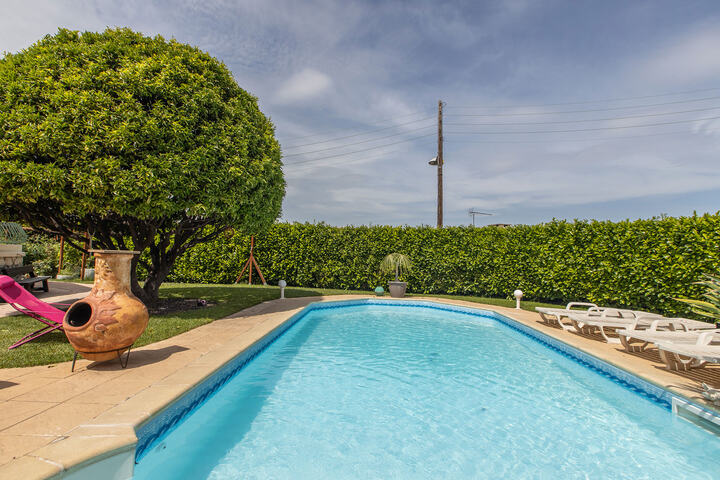
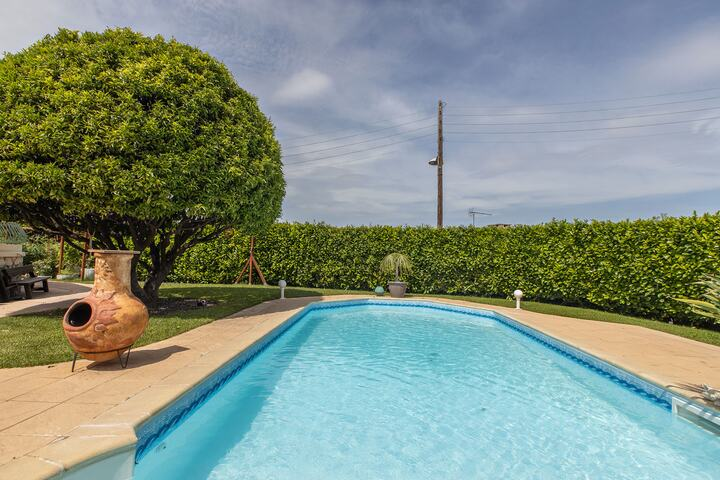
Bail mobilité v2 : salon canapé fermé et piscine sans transats (retouches Magnific validées par Géraldine, 540 crédits), cuisine du bandeau sur la photo 19 (26/11)

diff --git a/site/bail-mobilite-v2/index.html b/site/bail-mobilite-v2/index.html
@@ -61,7 +61,7 @@
   <div class="v2-trio v2-bandeau">
     <figure><img src="../assets/img/terrasse-vue-mer.jpg" alt="Terrasse de l&#x27;appartement avec table et vue sur la mer." loading="lazy"><figcaption>Le soir, changez d'horizon</figcaption></figure>
     <figure><img src="../assets/img/visite/trio-sejour.jpg" alt="Le séjour : le canapé et la table à manger, ouverts sur la terrasse" loading="lazy"><figcaption>De la place pour vivre, pas seulement pour dormir</figcaption></figure>
-    <figure><img src="../assets/img/visite/trio-cuisine.jpg" alt="La cuisine équipée : plan de travail, four, micro-ondes, réfrigérateur et îlot" loading="lazy"><figcaption>Vos habitudes voyagent aussi</figcaption></figure>
+    <figure><img src="../assets/img/visite/trio-cuisine.jpg" alt="La cuisine équipée : îlot et tabourets, four, micro-ondes et réfrigérateur" loading="lazy"><figcaption>Vos habitudes voyagent aussi</figcaption></figure>
   </div>
   <p class="v2-centre"><a class="bouton" href="#demande">Vérifier mes dates</a></p>
 </div></section>
@@ -71,8 +71,8 @@
   <p class="v2-lead v2-une-ligne">Au premier étage d'une villa, un appartement traversant de 77,51 m² avec deux chambres, deux salles d'eau et deux terrasses.</p>
 </div></section>
 <section class="v2-blanc v2-visite"><div class="v2-l">
-  <div class="v2-cartes"><figure class="v2-carte"><img src="../assets/img/salon-vue.jpg" alt="Le salon et son canapé-lit, ouvert sur la terrasse" loading="lazy"><figcaption><svg class="pic v2-pic" aria-hidden="true"><use href="#i-canape"/></svg><h3>Le salon</h3><p>Un canapé-lit dans la pièce de vie.</p></figcaption></figure><figure class="v2-carte"><img src="../assets/img/chambre-1-fenetre.jpg" alt="La première chambre, son lit double et sa fenêtre" loading="lazy"><figcaption><svg class="pic v2-pic" aria-hidden="true"><use href="#i-lit"/></svg><h3>La première chambre</h3><p>13,91 m², un lit double et une salle d&#x27;eau privative avec douche à l&#x27;italienne.</p></figcaption></figure><figure class="v2-carte"><img src="../assets/img/chambre-2-lits.jpg" alt="La seconde chambre et ses deux lits simples" loading="lazy"><figcaption><svg class="pic v2-pic" aria-hidden="true"><use href="#i-ordi"/></svg><h3>La seconde chambre</h3><p>12,88 m², deux lits simples de 80 × 200 cm ou un lit double de 160 cm, et un poste de travail. La fibre est installée dans le logement.</p></figcaption></figure><figure class="v2-carte"><img src="../assets/img/salle-eau-douche.jpg" alt="La grande salle d&#x27;eau" loading="lazy"><figcaption><svg class="pic v2-pic" aria-hidden="true"><use href="#i-douche"/></svg><h3>Les salles d&#x27;eau</h3><p>Deux salles d&#x27;eau, dont une privative, et un WC indépendant.</p></figcaption></figure><figure class="v2-carte"><img src="../assets/img/piscine-jardin.jpg" alt="" loading="lazy"><figcaption><svg class="pic v2-pic" aria-hidden="true"><use href="#i-piscine"/></svg><h3>La piscine</h3><p>Une piscine partagée dans le jardin de la villa, accessible selon les horaires prévus.</p></figcaption></figure><div class="v2-carte v2-carte-bleue"><svg class="pic v2-pic" aria-hidden="true"><use href="#i-details"/></svg><h3>Les détails qui comptent</h3><ul class="v2-liste"><li><svg class="pic-s" aria-hidden="true"><use href="#i-machine"/></svg><span>Lave-linge</span></li><li><svg class="pic-s" aria-hidden="true"><use href="#i-seche"/></svg><span>Sèche-linge</span></li><li><svg class="pic-s" aria-hidden="true"><use href="#i-linge"/></svg><span>Linge de maison fourni avec rechange</span></li><li><svg class="pic-s" aria-hidden="true"><use href="#i-clim"/></svg><span>Climatisation réversible</span></li><li><svg class="pic-s" aria-hidden="true"><use href="#i-parking"/></svg><span>Une place de parking privée</span></li></ul></div></div>
-  <details class="v2-galerie-tout"><summary>Voir toutes les photos (23)</summary><div class="v2-galerie-visite"><div class="v2-galerie-groupe"><h3>Le séjour</h3><div class="galerie v2-gg"><a href="../assets/img/visite/sejour.jpg"><img src="../assets/img/visite/sejour-m.jpg" alt="Le séjour et la salle à manger, canapé replié" loading="lazy"></a><a href="../assets/img/visite/salon-1.jpg"><img src="../assets/img/visite/salon-1-m.jpg" alt="Le coin salon, canapé-lit déplié" loading="lazy"></a></div></div><div class="v2-galerie-groupe"><h3>La cuisine</h3><div class="galerie v2-gg"><a href="../assets/img/visite/cuisine-1.jpg"><img src="../assets/img/visite/cuisine-1-m.jpg" alt="La cuisine ouverte et son îlot, face au séjour" loading="lazy"></a><a href="../assets/img/visite/cuisine-2.jpg"><img src="../assets/img/visite/cuisine-2-m.jpg" alt="La cuisine : plan de travail, four, micro-ondes, réfrigérateur" loading="lazy"></a><a href="../assets/img/visite/cuisine-3.jpg"><img src="../assets/img/visite/cuisine-3-m.jpg" alt="L&#x27;îlot de la cuisine" loading="lazy"></a><a href="../assets/img/visite/cuisine-4.jpg"><img src="../assets/img/visite/cuisine-4-m.jpg" alt="La cuisine et l&#x27;entrée" loading="lazy"></a><a href="../assets/img/visite/cuisine-5.jpg"><img src="../assets/img/visite/cuisine-5-m.jpg" alt="Four, micro-ondes et réfrigérateur-congélateur" loading="lazy"></a><a href="../assets/img/visite/cuisine-6.jpg"><img src="../assets/img/visite/cuisine-6-m.jpg" alt="Plaque à induction et ustensiles" loading="lazy"></a><a href="../assets/img/visite/cuisine-7.jpg"><img src="../assets/img/visite/cuisine-7-m.jpg" alt="Préparer le dîner dans la cuisine" loading="lazy"></a></div></div><div class="v2-galerie-groupe"><h3>La première chambre et sa salle d&#x27;eau privative</h3><div class="galerie v2-gg"><a href="../assets/img/visite/chambre1-1.jpg"><img src="../assets/img/visite/chambre1-1-m.jpg" alt="La première chambre, son lit double et sa fenêtre" loading="lazy"></a><a href="../assets/img/visite/chambre1-2.jpg"><img src="../assets/img/visite/chambre1-2-m.jpg" alt="La première chambre et ses rangements" loading="lazy"></a><a href="../assets/img/visite/sde-privative.jpg"><img src="../assets/img/visite/sde-privative-m.jpg" alt="La salle d&#x27;eau privative, douche à l&#x27;italienne" loading="lazy"></a></div></div><div class="v2-galerie-groupe"><h3>La seconde chambre</h3><div class="galerie v2-gg"><a href="../assets/img/visite/chambre2-2.jpg"><img src="../assets/img/visite/chambre2-2-m.jpg" alt="La seconde chambre côté fenêtre" loading="lazy"></a><a href="../assets/img/visite/chambre2-3.jpg"><img src="../assets/img/visite/chambre2-3-m.jpg" alt="La seconde chambre, côté mur" loading="lazy"></a></div></div><div class="v2-galerie-groupe"><h3>La grande salle d&#x27;eau et le WC</h3><div class="galerie v2-gg"><a href="../assets/img/visite/sde-grande.jpg"><img src="../assets/img/visite/sde-grande-m.jpg" alt="La grande salle d&#x27;eau" loading="lazy"></a><a href="../assets/img/visite/wc.jpg"><img src="../assets/img/visite/wc-m.jpg" alt="Le WC indépendant" loading="lazy"></a></div></div><div class="v2-galerie-groupe"><h3>Les terrasses</h3><div class="galerie v2-gg"><a href="../assets/img/visite/terrasse-2.jpg"><img src="../assets/img/visite/terrasse-2-m.jpg" alt="La terrasse face à la mer" loading="lazy"></a><a href="../assets/img/visite/terrasse-3.jpg"><img src="../assets/img/visite/terrasse-3-m.jpg" alt="La table de la terrasse" loading="lazy"></a><a href="../assets/img/visite/apero-3.jpg"><img src="../assets/img/visite/apero-3-m.jpg" alt="La terrasse et la mer" loading="lazy"></a><a href="../assets/img/visite/apero-4.jpg"><img src="../assets/img/visite/apero-4-m.jpg" alt="Les tables de la terrasse vues d&#x27;en haut" loading="lazy"></a><a href="../assets/img/visite/vue.jpg"><img src="../assets/img/visite/vue-m.jpg" alt="La vue sur la Baie des Anges" loading="lazy"></a></div></div><div class="v2-galerie-groupe"><h3>Le jardin et la piscine partagée</h3><div class="galerie v2-gg"><a href="../assets/img/visite/piscine-3.jpg"><img src="../assets/img/visite/piscine-3-m.jpg" alt="La piscine partagée et le jardin" loading="lazy"></a><a href="../assets/img/visite/piscine-ciel.jpg"><img src="../assets/img/visite/piscine-ciel-m.jpg" alt="La piscine et le jardin vus du ciel" loading="lazy"></a></div></div></div></details>
+  <div class="v2-cartes"><figure class="v2-carte"><img src="../assets/img/visite/salon-ferme.jpg" alt="Le salon et son canapé replié, contre le mur orange" loading="lazy"><figcaption><svg class="pic v2-pic" aria-hidden="true"><use href="#i-canape"/></svg><h3>Le salon</h3><p>Un canapé-lit dans la pièce de vie.</p></figcaption></figure><figure class="v2-carte"><img src="../assets/img/chambre-1-fenetre.jpg" alt="La première chambre, son lit double et sa fenêtre" loading="lazy"><figcaption><svg class="pic v2-pic" aria-hidden="true"><use href="#i-lit"/></svg><h3>La première chambre</h3><p>13,91 m², un lit double et une salle d&#x27;eau privative avec douche à l&#x27;italienne.</p></figcaption></figure><figure class="v2-carte"><img src="../assets/img/chambre-2-lits.jpg" alt="La seconde chambre et ses deux lits simples" loading="lazy"><figcaption><svg class="pic v2-pic" aria-hidden="true"><use href="#i-ordi"/></svg><h3>La seconde chambre</h3><p>12,88 m², deux lits simples de 80 × 200 cm ou un lit double de 160 cm, et un poste de travail. La fibre est installée dans le logement.</p></figcaption></figure><figure class="v2-carte"><img src="../assets/img/salle-eau-douche.jpg" alt="La grande salle d&#x27;eau" loading="lazy"><figcaption><svg class="pic v2-pic" aria-hidden="true"><use href="#i-douche"/></svg><h3>Les salles d&#x27;eau</h3><p>Deux salles d&#x27;eau, dont une privative, et un WC indépendant.</p></figcaption></figure><figure class="v2-carte"><img src="../assets/img/visite/piscine-3.jpg" alt="La piscine partagée et le jardin de la villa" loading="lazy"><figcaption><svg class="pic v2-pic" aria-hidden="true"><use href="#i-piscine"/></svg><h3>La piscine</h3><p>Une piscine partagée dans le jardin de la villa, accessible selon les horaires prévus.</p></figcaption></figure><div class="v2-carte v2-carte-bleue"><svg class="pic v2-pic" aria-hidden="true"><use href="#i-details"/></svg><h3>Les détails qui comptent</h3><ul class="v2-liste"><li><svg class="pic-s" aria-hidden="true"><use href="#i-machine"/></svg><span>Lave-linge</span></li><li><svg class="pic-s" aria-hidden="true"><use href="#i-seche"/></svg><span>Sèche-linge</span></li><li><svg class="pic-s" aria-hidden="true"><use href="#i-linge"/></svg><span>Linge de maison fourni avec rechange</span></li><li><svg class="pic-s" aria-hidden="true"><use href="#i-clim"/></svg><span>Climatisation réversible</span></li><li><svg class="pic-s" aria-hidden="true"><use href="#i-parking"/></svg><span>Une place de parking privée</span></li></ul></div></div>
+  <details class="v2-galerie-tout"><summary>Voir toutes les photos (23)</summary><div class="v2-galerie-visite"><div class="v2-galerie-groupe"><h3>Le séjour</h3><div class="galerie v2-gg"><a href="../assets/img/visite/salon-ferme.jpg"><img src="../assets/img/visite/salon-ferme-m.jpg" alt="Le coin salon, canapé-lit replié" loading="lazy"></a><a href="../assets/img/visite/salon-1.jpg"><img src="../assets/img/visite/salon-1-m.jpg" alt="Le coin salon, canapé-lit déplié" loading="lazy"></a></div></div><div class="v2-galerie-groupe"><h3>La cuisine</h3><div class="galerie v2-gg"><a href="../assets/img/visite/cuisine-1.jpg"><img src="../assets/img/visite/cuisine-1-m.jpg" alt="La cuisine ouverte et son îlot, face au séjour" loading="lazy"></a><a href="../assets/img/visite/cuisine-2.jpg"><img src="../assets/img/visite/cuisine-2-m.jpg" alt="La cuisine : plan de travail, four, micro-ondes, réfrigérateur" loading="lazy"></a><a href="../assets/img/visite/cuisine-3.jpg"><img src="../assets/img/visite/cuisine-3-m.jpg" alt="L&#x27;îlot de la cuisine" loading="lazy"></a><a href="../assets/img/visite/cuisine-4.jpg"><img src="../assets/img/visite/cuisine-4-m.jpg" alt="La cuisine et l&#x27;entrée" loading="lazy"></a><a href="../assets/img/visite/cuisine-5.jpg"><img src="../assets/img/visite/cuisine-5-m.jpg" alt="Four, micro-ondes et réfrigérateur-congélateur" loading="lazy"></a><a href="../assets/img/visite/cuisine-6.jpg"><img src="../assets/img/visite/cuisine-6-m.jpg" alt="Plaque à induction et ustensiles" loading="lazy"></a><a href="../assets/img/visite/cuisine-7.jpg"><img src="../assets/img/visite/cuisine-7-m.jpg" alt="Préparer le dîner dans la cuisine" loading="lazy"></a></div></div><div class="v2-galerie-groupe"><h3>La première chambre et sa salle d&#x27;eau privative</h3><div class="galerie v2-gg"><a href="../assets/img/visite/chambre1-1.jpg"><img src="../assets/img/visite/chambre1-1-m.jpg" alt="La première chambre, son lit double et sa fenêtre" loading="lazy"></a><a href="../assets/img/visite/chambre1-2.jpg"><img src="../assets/img/visite/chambre1-2-m.jpg" alt="La première chambre et ses rangements" loading="lazy"></a><a href="../assets/img/visite/sde-privative.jpg"><img src="../assets/img/visite/sde-privative-m.jpg" alt="La salle d&#x27;eau privative, douche à l&#x27;italienne" loading="lazy"></a></div></div><div class="v2-galerie-groupe"><h3>La seconde chambre</h3><div class="galerie v2-gg"><a href="../assets/img/visite/chambre2-2.jpg"><img src="../assets/img/visite/chambre2-2-m.jpg" alt="La seconde chambre côté fenêtre" loading="lazy"></a><a href="../assets/img/visite/chambre2-3.jpg"><img src="../assets/img/visite/chambre2-3-m.jpg" alt="La seconde chambre, côté mur" loading="lazy"></a></div></div><div class="v2-galerie-groupe"><h3>La grande salle d&#x27;eau et le WC</h3><div class="galerie v2-gg"><a href="../assets/img/visite/sde-grande.jpg"><img src="../assets/img/visite/sde-grande-m.jpg" alt="La grande salle d&#x27;eau" loading="lazy"></a><a href="../assets/img/visite/wc.jpg"><img src="../assets/img/visite/wc-m.jpg" alt="Le WC indépendant" loading="lazy"></a></div></div><div class="v2-galerie-groupe"><h3>Les terrasses</h3><div class="galerie v2-gg"><a href="../assets/img/visite/terrasse-2.jpg"><img src="../assets/img/visite/terrasse-2-m.jpg" alt="La terrasse face à la mer" loading="lazy"></a><a href="../assets/img/visite/terrasse-3.jpg"><img src="../assets/img/visite/terrasse-3-m.jpg" alt="La table de la terrasse" loading="lazy"></a><a href="../assets/img/visite/apero-3.jpg"><img src="../assets/img/visite/apero-3-m.jpg" alt="La terrasse et la mer" loading="lazy"></a><a href="../assets/img/visite/apero-4.jpg"><img src="../assets/img/visite/apero-4-m.jpg" alt="Les tables de la terrasse vues d&#x27;en haut" loading="lazy"></a><a href="../assets/img/visite/vue.jpg"><img src="../assets/img/visite/vue-m.jpg" alt="La vue sur la Baie des Anges" loading="lazy"></a></div></div><div class="v2-galerie-groupe"><h3>Le jardin et la piscine partagée</h3><div class="galerie v2-gg"><a href="../assets/img/visite/piscine-3.jpg"><img src="../assets/img/visite/piscine-3-m.jpg" alt="La piscine partagée et le jardin" loading="lazy"></a><a href="../assets/img/visite/piscine-ciel.jpg"><img src="../assets/img/visite/piscine-ciel-m.jpg" alt="La piscine et le jardin vus du ciel" loading="lazy"></a></div></div></div></details>
 </div></section>
 
 <section class="v2-bleu v2-acces" id="acces"><div class="v2-l">

diff --git a/outils/build_v2.py b/outils/build_v2.py
@@ -145,15 +145,15 @@ def bloc(photo_html, titre_html, contenu, inverse=False, ton="bleu", ident="", p
 # Visite resserrée (retour de Brain validé par Géraldine, 26/11/2026) : chambres, salles d'eau, salon, piscine, équipement.
 # Le séjour, la cuisine et les terrasses sont déjà dans le trio : ils ne reviennent pas ici.
 CARTES = [
-    ("salon-vue", "canape", "Le salon", "Un canapé-lit dans la pièce de vie."),
+    ("visite/salon-ferme", "canape", "Le salon", "Un canapé-lit dans la pièce de vie."),
     ("chambre-1-fenetre", "lit", "La première chambre", "13,91 m², un lit double et une salle d'eau privative avec douche à l'italienne."),
     ("chambre-2-lits", "ordi", "La seconde chambre", "12,88 m², deux lits simples de 80 × 200 cm ou un lit double de 160 cm, et un poste de travail. La fibre est installée dans le logement."),
     ("salle-eau-douche", "douche", "Les salles d'eau", "Deux salles d'eau, dont une privative, et un WC indépendant."),
-    ("piscine-jardin", "piscine", "La piscine", "Une piscine partagée dans le jardin de la villa, accessible selon les horaires prévus."),
+    ("visite/piscine-3", "piscine", "La piscine", "Une piscine partagée dans le jardin de la villa, accessible selon les horaires prévus."),
 ]
 # Toutes les photos, dans l'ordre de la visite, regroupées par pièce (Géraldine, 26/11/2026). Fichiers dans assets/img/visite/.
 GALERIE_GROUPES = [
-    ("Le séjour", [("sejour", "Le séjour et la salle à manger, canapé replié"), ("salon-1", "Le coin salon, canapé-lit déplié")]),
+    ("Le séjour", [("salon-ferme", "Le coin salon, canapé-lit replié"), ("salon-1", "Le coin salon, canapé-lit déplié")]),
     ("La cuisine", [("cuisine-1", "La cuisine ouverte et son îlot, face au séjour"), ("cuisine-2", "La cuisine : plan de travail, four, micro-ondes, réfrigérateur"),
                     ("cuisine-3", "L'îlot de la cuisine"), ("cuisine-4", "La cuisine et l'entrée"), ("cuisine-5", "Four, micro-ondes et réfrigérateur-congélateur"),
                     ("cuisine-6", "Plaque à induction et ustensiles"), ("cuisine-7", "Préparer le dîner dans la cuisine")]),
@@ -168,7 +168,7 @@ GALERIE_GROUPES = [
 NB_PHOTOS = sum(len(g) for _, g in GALERIE_GROUPES)
 GALERIE_TOUT = []
 ALT.update({n: a for n, a, _ in GALERIE_TOUT})
-ALT.update({"chambre-1-fenetre": "La première chambre, son lit double et sa fenêtre", "salon-vue": "Le salon et son canapé-lit, ouvert sur la terrasse", "chambre-1-lit": "La première chambre et son lit double", "chambre-2-lits": "La seconde chambre et ses deux lits simples",
+ALT.update({"visite/salon-ferme": "Le salon et son canapé replié, contre le mur orange", "visite/piscine-3": "La piscine partagée et le jardin de la villa", "chambre-1-fenetre": "La première chambre, son lit double et sa fenêtre", "salon-vue": "Le salon et son canapé-lit, ouvert sur la terrasse", "chambre-1-lit": "La première chambre et son lit double", "chambre-2-lits": "La seconde chambre et ses deux lits simples",
             "salle-eau-douche": "La grande salle d'eau"})
 
 # Repères de localisation gardés (Géraldine : trajets vérifiés depuis le logement, hors trafic, 26/11/2026).
@@ -284,7 +284,7 @@ def corps():
   <div class="v2-trio v2-bandeau">
     <figure>{img("terrasse-vue-mer", "Terrasse de l'appartement avec table et vue sur la mer.")}<figcaption>Le soir, changez d'horizon</figcaption></figure>
     <figure><img src="{{R}}assets/img/visite/trio-sejour.jpg" alt="Le séjour : le canapé et la table à manger, ouverts sur la terrasse" loading="lazy"><figcaption>De la place pour vivre, pas seulement pour dormir</figcaption></figure>
-    <figure><img src="{{R}}assets/img/visite/trio-cuisine.jpg" alt="La cuisine équipée : plan de travail, four, micro-ondes, réfrigérateur et îlot" loading="lazy"><figcaption>Vos habitudes voyagent aussi</figcaption></figure>
+    <figure><img src="{{R}}assets/img/visite/trio-cuisine.jpg" alt="La cuisine équipée : îlot et tabourets, four, micro-ondes et réfrigérateur" loading="lazy"><figcaption>Vos habitudes voyagent aussi</figcaption></figure>
   </div>
   <p class="v2-centre"><a class="bouton" href="#demande">Vérifier mes dates</a></p>
 </div></section>
